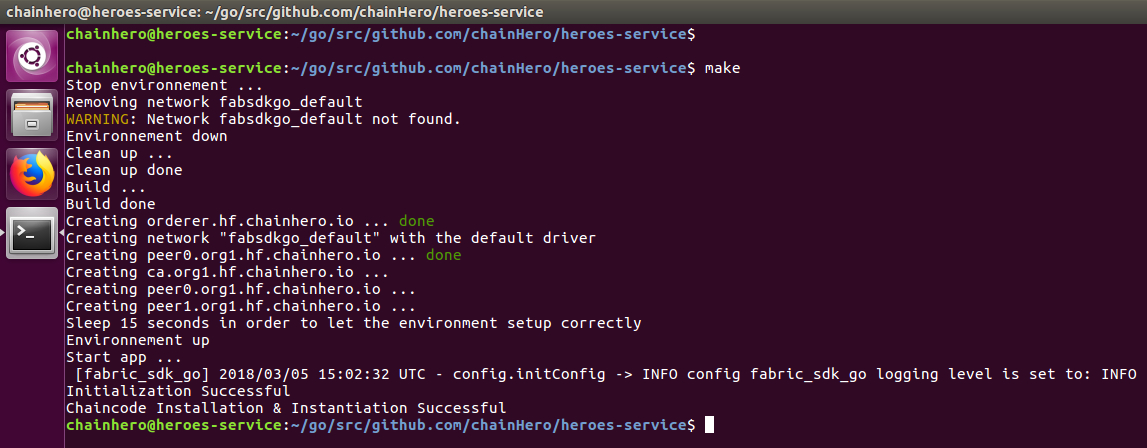
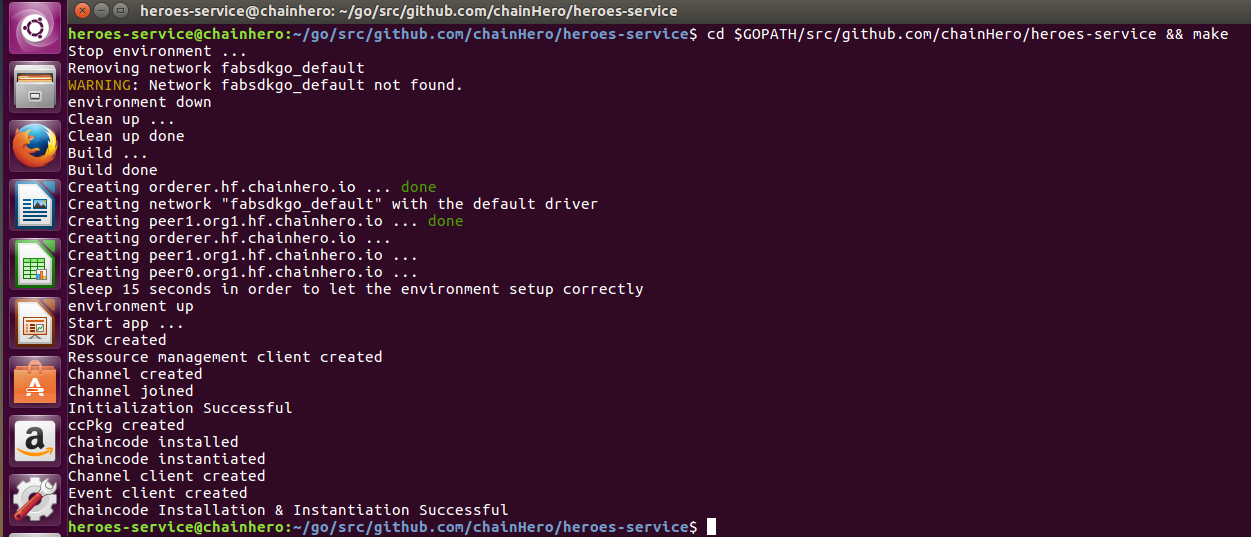
Upload new images & update README.MD

Changed region(s): [[0.0, 0.0, 1.0, 1.0], [0.3967, 0.8125, 1.0, 0.875]]

diff --git a/README.md b/README.md
@@ -142,48 +142,6 @@ go version
 
 See instructions from the Golang website: [golang.org/install](https://golang.org/doc/install)
 
-### d. Fabric SDK Go
-
-Last but not least, the Hyperledger Fabric SDK Go will allow us to easily communicate with the Fabric's components. You don't need to install the Fabric or Fabric CA framework because the SDK automatically handles it locally. To avoid version issues, we are going to checkout to a specific commit which works with the following tutorial.
-
-```bash
-go get -u github.com/hyperledger/fabric-sdk-go && \
-cd $GOPATH/src/github.com/hyperledger/fabric-sdk-go && \
-git checkout a906355f73d060d7bf95874a9e90dc17589edbb3
-```
-
-Let's make sure that you have the requested dependencies:
-
-```bash
-cd $GOPATH/src/github.com/hyperledger/fabric-sdk-go && \
-make depend-install
-```
-
-Finally, we can launch the various tests of the SDK to check its proper functioning before going further:
-
-```bash
-cd $GOPATH/src/github.com/hyperledger/fabric-sdk-go ; \
-make
-```
-
-If you get the following error:
-
-```
-../fabric-sdk-go/vendor/github.com/miekg/pkcs11/pkcs11.go:29:18: fatal error: ltdl.h: No such file or directory
-```
-
-You need to install the package `libltdl-dev` and re-execute previous command (`make`):
-
-```bash
-sudo apt install libltdl-dev
-```
-
-The process take a while (depending on your network connection). During this process, a virtual network has been built and some tests have been made in order to check if your system is ready. Now we can work with our first application.
-
-![End of the Fabric SDK Go installation](docs/images/finish-fabric-sdk-go-install.png)
-
-> **Note**: there is more output but it's irrelevant to put it here. The only things you need to care about is the line `fabsdkgo_integration-tests_1 exited with code 0`. If you have `fabsdkgo_integration-tests_1 exited with code 1` then you have a problem. Scroll up in the messages above to find the error.
-
 ## 4. Make your first blockchain network
 
 ### a. Prepare environment
